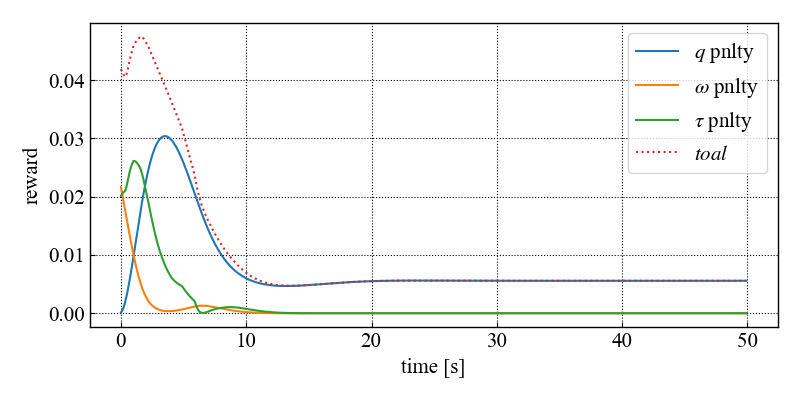
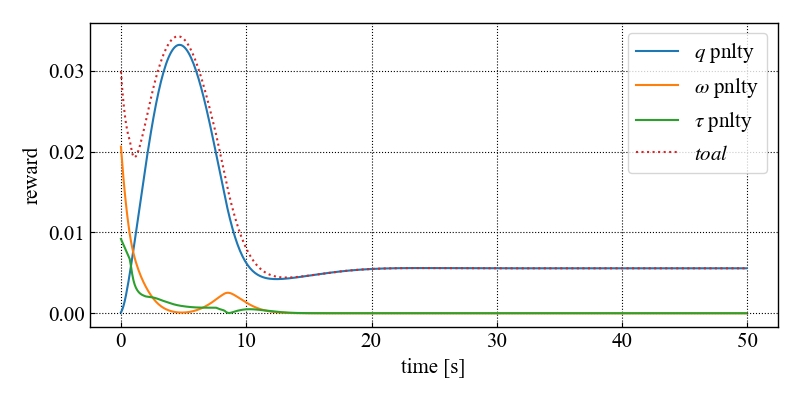
UPDATE: change reward

diff --git a/environment.py b/environment.py
@@ -204,18 +204,11 @@ class SatelliteContinuousEnv(gym.Env):
         action = np.clip(action, -self.max_torque, self.max_torque)
 
         pre_state = self.pre_state
-        # q, omega = pre_state
         q = pre_state[:4]
         omega = pre_state[-3:]
         
         state = self.state
         qe = state[:4]
-
-        #ステートアップデート（オイラー法）
-        # q_dot = self.quaternion_differential(omega, q)
-        # omega_dot = self.omega_differential(omega,self.inertia_inv,action)
-        # q = q + q_dot * self.dt
-        # omega = omega + omega_dot * self.dt
 
         #ステートアップデート（runge-kutta 法）
         k1 = self.omega_differential(omega,self.inertia_inv,self.inertia,action)
@@ -236,12 +229,6 @@ class SatelliteContinuousEnv(gym.Env):
 
         self.pre_state = np.hstack((q_new, omega_new))
         self.state = np.hstack((qe_new, qe_dot_new, omega_new))
-
-        # self.pre_state = [q_new, omega_new]
-        # self.state = [qe_new, qe_dot_new, omega_new]
-
-        # とりまdoneはfalseにしておく
-        # done = False
 
         #ステップ数を更新
         self.nsteps += 1
@@ -333,8 +320,6 @@ class SatelliteContinuousEnv(gym.Env):
         self.d_errorQuate = self.quaternion_differential(self.startOmega, self.errorQuate)
         self.pre_state = np.hstack((self.startQuate,self.startOmega))
         self.state = np.hstack((self.errorQuate,self.d_errorQuate, self.startOmega))
-        # self.pre_state = [self.startQuate,self.startOmega]
-        # self.state = [self.errorQuate,self.d_errorQuate, self.startOmega]
 
         obs = self.state
         # タイムスタンプをリセット

diff --git a/network.py b/network.py
@@ -99,9 +99,9 @@ class Actor(nn.Module):
     def forward(self, obs):
         x = F.relu(self.linear1(obs))
         x = F.relu(self.linear2(x))
-        # output of tanh is bounded between -1 and 1
+        # output of tanh is bounded between -0.5 and 0.5
         # multiply by maximum action (here: 10N) in order to scale the action appropriately
-        x = torch.tanh(self.linear3(x))
+        x = torch.tanh(self.linear3(x))*self.max_action
         return x
 
 
@@ -120,7 +120,7 @@ class TD3Agent:
         self.tau = tau
         self.train = train  # set to true if we want to train the agent, set to false to simulate agent
         self.decay = decay
-        self.max_action = 1
+        self.max_action = 0.5
         self.policy_noise = policy_noise
         self.noise_clip = noise_clip
 
